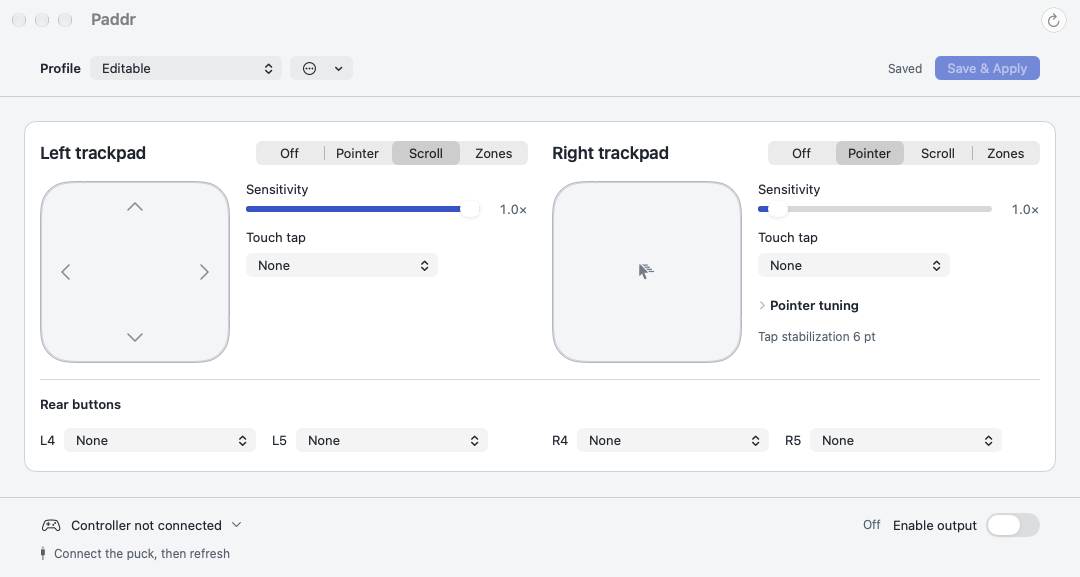
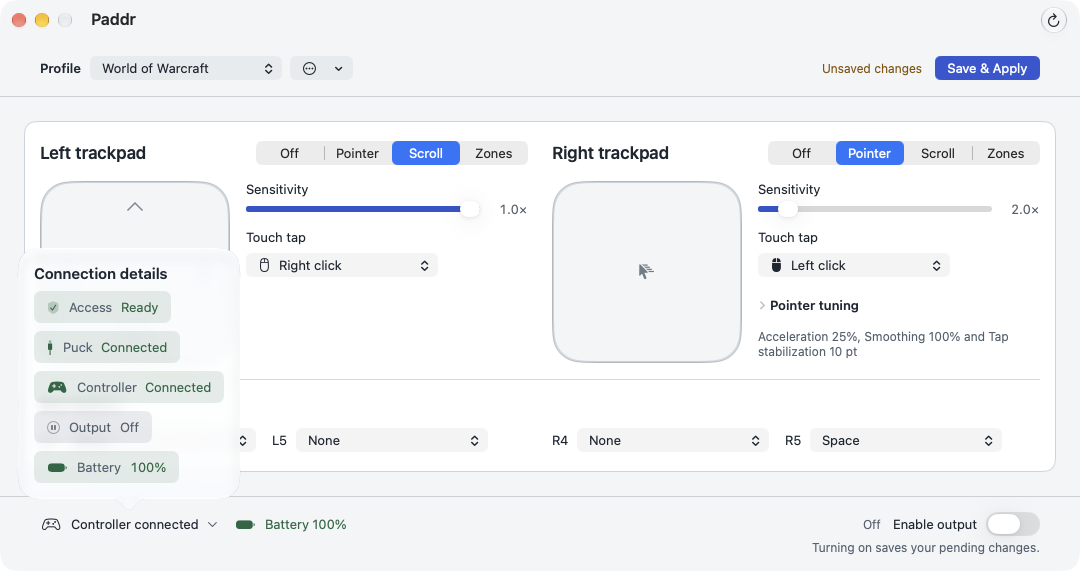
docs: show Compass branding and live permission-approved captures

diff --git a/docs/images/README.md b/docs/images/README.md
@@ -1,53 +1,69 @@
-# Native interface evidence
+# Live interface captures
 
-All twelve README images were replaced on 2026-10-26 using production SwiftUI/AppKit
-views on macOS 27.2, build `26B118`, with Xcode 27.0. The views come from merged PR #92
-(`c211657d3dcff3e38e7835508993ce0cef966172`), with the footer alignment and transition-guidance
-corrections in PR #93. The README exporter
-is `FamilyConsoleLayoutEvidenceTests.testExportReadmeWindowEvidence`.
+All twelve README screenshots were replaced on 2026-10-26 with captures of the
+running, packaged app on macOS 27.2, build `26B118`. The installed arm64 ad-hoc build
+identifies source revision `00145329950b5f519db639eaf97c40a3447bd6b9` from PR #94,
+including the audit repairs and native Compass icon. The README heading uses
+`Assets/PaddrIcon.png`, generated from the same Icon Composer source.
 
-These are complete native window-frame renders, including the AppKit titlebar,
-with inert in-memory example data. They are not HTML mockups or live controller
-sessions. SwiftUI controls use key-window presentation; the offscreen AppKit
-window chrome is inactive. No user profile, permission request, or mapped output
-is involved.
+These are live screenshots, not test fixtures or HTML mockups. The maintainer
+granted Input Monitoring and Accessibility to this installed copy. Workspace
+captures show a real puck-connected controller reporting 100% battery, with mapped
+output off. Screenshot examples were staged as unsaved drafts in the existing
+World of Warcraft profile. They are not built-in presets. The drafts were discarded
+and the saved profile and original dark appearance restored after capture.
 
-Configuration captures use `ConfigurationView(managesWindowSize: true)` inside
-an `NSHostingController` and the production window chrome and sizing helpers.
-The exporter lets content measurements set the height, then checks that the scroll
-viewport matches the full document within two points. A fixed-height canvas, extra
-blank band, or screen too small for the complete document fails this check. The
-capture includes the actual titlebar instead of an empty reserved titlebar area.
+Only `paddr-permissions.png` shows missing access. It captures the actual **Allow
+access** setup sheet before the maintainer granted permissions; permissions were
+not revoked or simulated to recreate this state.
 
-The guide uses its production 720 × 480 usable layout, plus titlebar. Its welcome
-page intentionally has more space than its access page; the app's guide does not
-use the configuration window's automatic sizing.
+## Capture method and sizing
 
-| Captures | Window image dimensions |
+Workspace and guide images are direct macOS window captures, including the active
+titlebar, without window shadows or the computer-use cursor overlay. No UI elements,
+status values, or permission messages were composited or retouched. The setup
+sheet is a direct sheet capture from the same app before approval.
+
+The production app controls configuration-window width and height. Opening Pointer
+tuning grew the window from 571 to 793 points; changing both pads to Zones shrank
+it to 617 points. Controls and the complete output footer remain visible in every
+workspace capture. The guide retains its production 720 × 480 content layout plus
+titlebar. The permission sheet has its own fitted size.
+
+| Capture | PNG dimensions |
 | --- | --- |
-| Profile overview, light and dark | 1080 × 577 |
-| Expanded Pointer tuning | 1080 × 799 |
-| Both pads in Zones | 1080 × 623 |
-| Access granted | 1080 × 577 |
-| Radial, corners, left/right, top/bottom zone layouts | 1080 × 623 |
-| 3 × 3 zone layout | 1080 × 577 |
-| Guide welcome and access pages | 720 × 512 |
+| Profile overview, light and dark | 1080 × 571 |
+| Expanded Pointer tuning | 1080 × 793 |
+| Both pads in Zones | 1080 × 617 |
+| Connection details with access granted | 1080 × 571 |
+| Radial, corners, left/right, top/bottom zone layouts | 1080 × 617 |
+| 3 × 3 zone layout | 1080 × 571 |
+| Guide welcome | 720 × 512 |
+| Permission setup sheet | 560 × 335 |
 
-- `paddr-profile-overview.png` and `paddr-profile-overview-light.png`: editable
-  example draft, left Scroll/right Pointer, collapsed tuning, rear bindings F1–F4.
+- `paddr-profile-overview.png` and `paddr-profile-overview-light.png`: left Scroll,
+  right Pointer at 2.0×, collapsed tuning, and rear bindings visible.
 - `paddr-auto-sized-tuning.png`: left Pointer tuning expanded, right Zones, dark.
-- `paddr-auto-sized-zones.png`: both pads in Zones, dark, shorter content height.
+- `paddr-auto-sized-zones.png`: both pads in Zones, dark, shorter window.
 - `paddr-zones-*.png`: all five left-trackpad layouts with right Pointer, light.
-- `paddr-access-ready-light.png`: both permissions granted, no controller/puck
-  connected, output off, light. This is simulated access state.
+- `paddr-access-ready-light.png`: the Connection details popover confirms access,
+  puck and controller readiness, output off, and the live battery level.
 - `paddr-onboarding.png`: guide welcome page, light.
-- `paddr-permissions.png`: guide page 3 using the shared permission controls, light.
+- `paddr-permissions.png`: real setup sheet before permission approval, dark.
 
-Workspace examples have both permissions granted, no controller/puck connected,
-and output off. Only `paddr-permissions.png` simulates permissions still needed. Its profile is named Editable. Bindings
-are example drafts, not built-in presets.
+## Updating these images
 
-Regenerate the README captures with:
+Use an installed build with its source revision recorded. Grant permissions through
+macOS Settings and verify the controller state in the app. Stage example mappings
+as unsaved drafts with output off. Let the app settle at its managed size and capture
+the native window directly. Inspect every image for clipping, overlays, and private
+data before replacing it. Restore the saved profile and appearance afterward.
+
+Do not revoke working permissions merely to regenerate the setup illustration.
+Capture that state during a genuine first launch or permission-approval workflow.
+
+`FamilyConsoleLayoutEvidenceTests.testExportReadmeWindowEvidence` remains available
+for deterministic offscreen layout regression evidence with inert dependencies:
 
 ```bash
 PADDR_UI_EVIDENCE_DIR=/absolute/path/to/evidence \
@@ -55,17 +71,11 @@ swift test -Xswiftc -warnings-as-errors \
   --filter FamilyConsoleLayoutEvidenceTests/testExportReadmeWindowEvidence
 ```
 
-Export names start with `readme-`. Copy `overview-{dark,light}` to the two profile
-images, `expanded-dark` and `shorter-dark` to the auto-sized images,
-`access-ready-light` to its matching image, and `guide-{welcome,permissions}-light`
-to onboarding/permissions. The five `zones-*-light` images use enum raw names:
-`radial-four`, `four-corners`, `horizontal-two`, `vertical-two`, and `grid-nine`.
+Those fixture exports are separate from these live README images. The other
+`testExportConfigurationRenderEvidence` exporter covers fixed-viewport stress cases.
 
-The separate `testExportConfigurationRenderEvidence` retains fixed viewport
-stress cases for responsive-layout checks; those exports are not README images.
-Inspect replacements for clipping and private data before copying them here.
-
-Maintainer confirmation establishes the reported released macOS 27 and macOS 27.2
-release-candidate compatibility. These fixtures do not establish hardware
-compatibility, latency, or manual VoiceOver/keyboard behavior; see
-[the implementation verification record](../ui/PADDR_REDESIGN_VALIDATION.md).
+The captures establish the visible live connection and permission state, not
+mapping latency, physical key/button release behavior, or VoiceOver acceptance.
+Released macOS 27 and macOS 27.2 release-candidate compatibility remain attributed
+to maintainer confirmation. See [the implementation verification record](../ui/PADDR_REDESIGN_VALIDATION.md)
+for earlier validation and its limits.

diff --git a/README.md b/README.md
@@ -1,4 +1,7 @@
-# Paddr
+<p align="center">
+  <img src="Assets/PaddrIcon.png" width="112" height="112" alt="Paddr Compass app icon">
+</p>
+<h1 align="center">Paddr</h1>
 
 Paddr adds pointer movement, scrolling, touch-tap actions, button zones, and rear-button mappings to a puck-connected Steam Controller 2 on macOS—without requiring Steam Input.
 
@@ -13,7 +16,7 @@ See [CHANGELOG.md](CHANGELOG.md) for release history and current compatibility n
 
 The configuration window follows macOS light and dark appearance and keeps both trackpads independently editable. Profile selection and **Save & Apply** stay visible above the scrolling workspace; **Enable output** and output readiness stay below it. Common settings remain visible, while **Pointer tuning** reveals advanced controls and summarizes the enabled tuning when collapsed. Paddr manages the window size: it uses a 1080-point width when the screen allows, grows when Pointer tuning opens, and shrinks when it closes. Manual resizing is disabled. The window stays within the available screen area; scrolling remains available when the content is too tall to fit.
 
-The screenshots render complete native windows at their app-managed sizes with inert example data: no puck connected and output off. The workspace examples simulate both permissions granted. Only the permission guide shows access still needed. The bindings are example drafts, not built-in presets. [View the light appearance](docs/images/paddr-profile-overview-light.png).
+The screenshots show the running app at its managed window sizes, with a puck-connected controller, granted permissions, and output off. The bindings are staged unsaved examples, not built-in presets. Only the setup screenshot shows access still needed; it was captured before permission approval. [View the light appearance](docs/images/paddr-profile-overview-light.png).
 
 Opening **Pointer tuning** expands the window to keep the acceleration, smoothing, and tap-stability controls visible. Switching to shorter content shrinks it again.
 
@@ -82,9 +85,9 @@ Puck mode is the only confirmed connection. Bluetooth and direct USB remain unva
    Input Monitoring lets Paddr see puck reports; Accessibility lets it emit your mapped
    mouse and keyboard actions. You can edit profiles before granting access.
 
-![Paddr Guide Allow Access page, step 3 of 4, with separate Input Monitoring and Accessibility Request and Open Settings buttons](docs/images/paddr-permissions.png)
+![Paddr Allow access setup sheet before permission approval, with separate Input Monitoring and Accessibility Request and Open Settings buttons](docs/images/paddr-permissions.png)
 
-[View the workspace with access granted](docs/images/paddr-access-ready-light.png). This example still has output off and no controller connected; granting access does not enable output automatically.
+[View Connection details with access granted](docs/images/paddr-access-ready-light.png). The live controller is connected with 100% battery and output remains off; granting access does not enable output automatically.
 
 4. Choose **Duplicate to Edit** for the built-in **Default** profile, rename the copy if desired, configure both trackpads, and choose **Save & Apply**. Default always remains left Scroll/right Pointer and cannot be renamed, edited, or deleted. Its tuning remains available to inspect.
 
